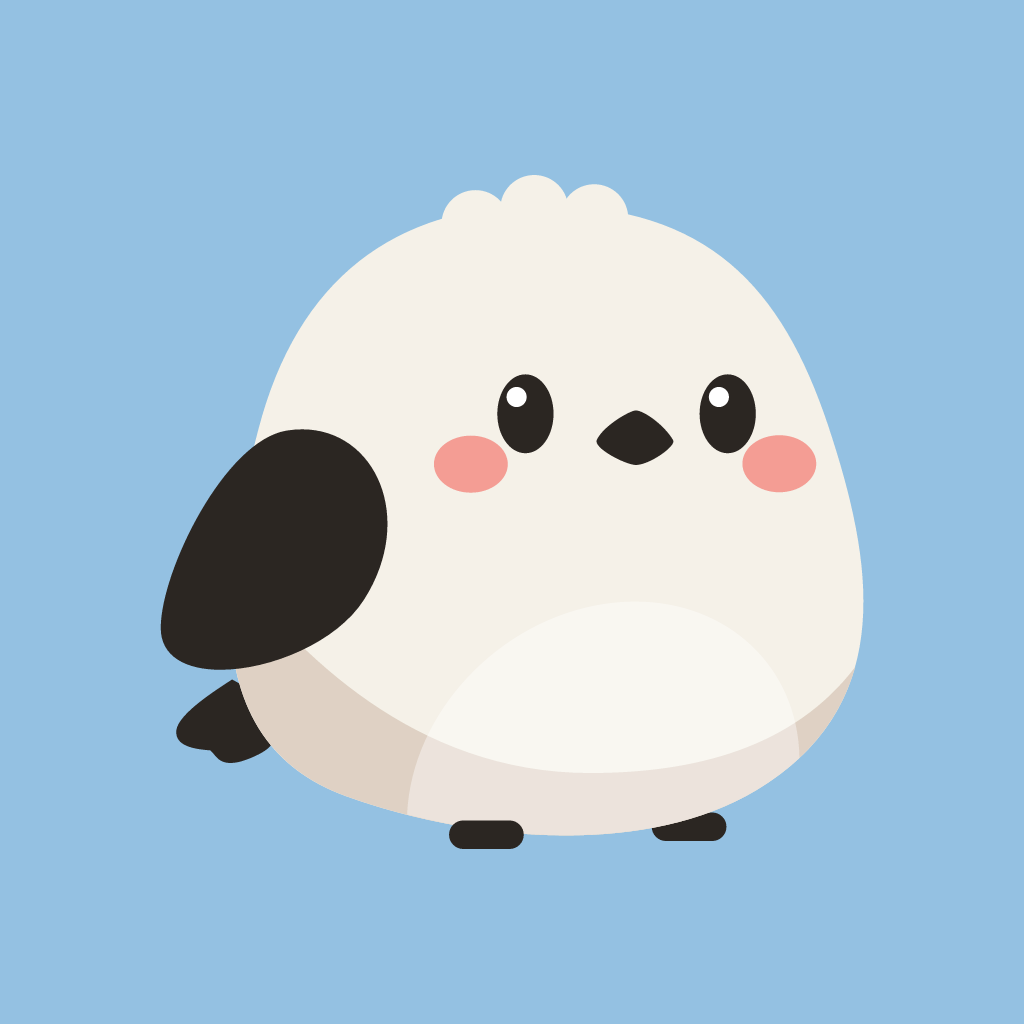
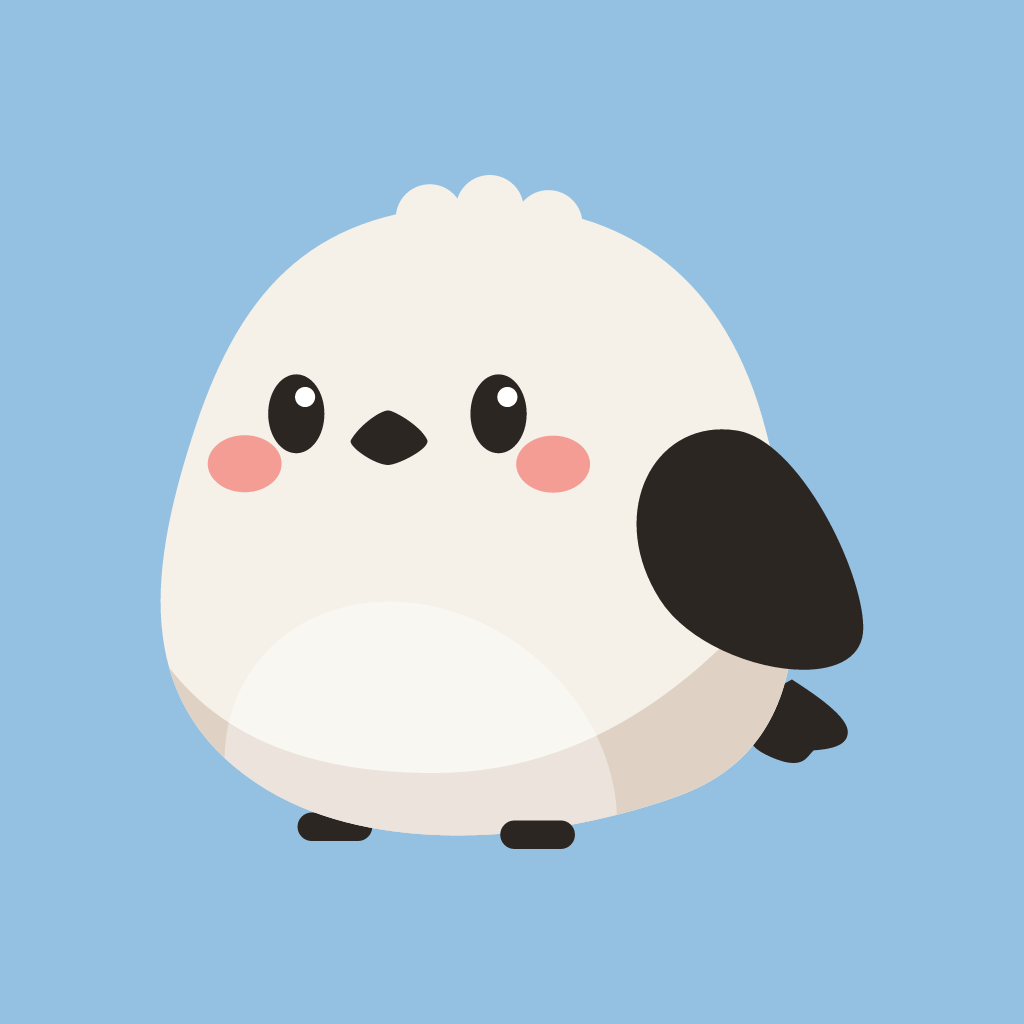
Face the mascot left and stop it floating
Every shape is mirrored so Kotori faces left, as it did before the
redesign, and the mood extras move across with the face; the thinking
glance now points at the thought bubbles. The endless bob is gone; the
blink and the celebrate hop stay. Icons, splash and favicon re-rendered.

Changed region(s): [[0.1562, 0.1562, 0.8438, 0.8438]]

diff --git a/apps/app/src/mascot/geometry.ts b/apps/app/src/mascot/geometry.ts
@@ -13,36 +13,36 @@ export const palette = {
 }
 
 export const shapes = {
-  tail: "M33.3 139.9 C 30 142.1, 20.4 148, 20 152.1 C 19.7 155.8, 24.2 156.5, 28.1 156.8 C 29.6 158.1, 30.1 160.3, 34.2 159.7 C 36.6 159.4, 43.4 156.5, 42.7 154.7 L 47.1 147.5 Z",
+  tail: "M166.7 139.9 C 170 142.1, 179.6 148, 180 152.1 C 180.3 155.8, 175.8 156.5, 171.9 156.8 C 170.4 158.1, 169.9 160.3, 165.8 159.7 C 163.4 159.4, 156.6 156.5, 157.3 154.7 L 152.9 147.5 Z",
   /** Feet are round-capped strokes; the back one tucks behind the body. */
-  feet: { back: "M136.7 175 H 147.7", front: "M88.4 176.9 H 99.4", width: 6.8 },
+  feet: { back: "M52.3 175 H 63.3", front: "M100.6 176.9 H 111.6", width: 6.8 },
   tuft: [
-    { cx: 91.3, cy: 31.4, r: 8.1 },
-    { cx: 105.3, cy: 27.8, r: 8.1 },
-    { cx: 119.6, cy: 30, r: 8.1 }
+    { cx: 80.4, cy: 30, r: 8.1 },
+    { cx: 94.7, cy: 27.8, r: 8.1 },
+    { cx: 108.7, cy: 31.4, r: 8.1 }
   ],
-  body: "M111.2 27 C 149 28.4, 165.7 48.6, 176.4 82.7 C 186.8 115.2, 190.3 147, 158.2 166.3 C 131.2 182.5, 89.7 178.3, 60.4 167.7 C 24.5 154.7, 30.8 113.8, 39.6 80.2 C 49.2 43.4, 73.6 25.5, 111.2 27 Z",
+  body: "M88.8 27 C 51 28.4, 34.3 48.6, 23.6 82.7 C 13.2 115.2, 9.7 147, 41.8 166.3 C 68.8 182.5, 110.3 178.3, 139.6 167.7 C 175.5 154.7, 169.2 113.8, 160.4 80.2 C 150.8 43.4, 126.4 25.5, 88.8 27 Z",
   /** The shadowed underside. */
   shade:
-    "M181.8 136.9 C 178.6 148.2, 171.5 158.3, 158.2 166.3 C 131.2 182.5, 89.7 178.3, 60.4 167.7 C 35.9 158.8, 31.1 136.9, 33.2 113.2 C 48.7 133, 76.4 162.2, 118.6 162.2 C 143.3 162.2, 167.1 156.3, 181.8 136.9 Z",
+    "M18.2 136.9 C 21.4 148.2, 28.5 158.3, 41.8 166.3 C 68.8 182.5, 110.3 178.3, 139.6 167.7 C 164.1 158.8, 168.9 136.9, 166.8 113.2 C 151.3 133, 123.6 162.2, 81.4 162.2 C 56.7 162.2, 32.9 156.3, 18.2 136.9 Z",
   /** Drawn in translucent white so it pales the body and the shade alike. */
   belly:
-    "M75 172.1 A 49.7 42.1 -39.5 0 1 168.5 158.6 C 165.6 161.3, 162.2 163.9, 158.2 166.3 C 135.4 179.9, 102.3 179.1, 75 172.1 Z",
-  wing: "M46.3 80.6 C 66.1 77.4, 77.9 100.1, 64.8 120.8 C 53.9 138.1, 16.1 144.8, 16.3 127.5 C 16.4 113.9, 31.6 83, 46.3 80.6 Z",
+    "M125 172.1 A 49.7 42.1 39.5 0 0 31.5 158.6 C 34.4 161.3, 37.8 163.9, 41.8 166.3 C 64.6 179.9, 97.7 179.1, 125 172.1 Z",
+  wing: "M153.7 80.6 C 133.9 77.4, 122.1 100.1, 135.2 120.8 C 146.1 138.1, 183.9 144.8, 183.7 127.5 C 183.6 113.9, 168.4 83, 153.7 80.6 Z",
   /** Wing raised for celebrations. */
   wingUp:
-    "M71.4 78.8 C 72.8 98.8, 49.3 108.6, 29.8 93.8 C 13.5 81.4, 10.1 43.1, 27.3 44.8 C 40.9 46.1, 70.4 64, 71.4 78.8 Z",
+    "M128.6 78.8 C 127.2 98.8, 150.7 108.6, 170.2 93.8 C 186.5 81.4, 189.9 43.1, 172.7 44.8 C 159.1 46.1, 129.6 64, 128.6 78.8 Z",
   cheeks: [
-    { cx: 90.2, cy: 88.6, rx: 8.8, ry: 6.8 },
-    { cx: 163.7, cy: 88.5, rx: 8.8, ry: 6.8 }
+    { cx: 36.3, cy: 88.5, rx: 8.8, ry: 6.8 },
+    { cx: 109.8, cy: 88.6, rx: 8.8, ry: 6.8 }
   ],
   eyes: [
-    { cx: 103.2, cy: 76.6, rx: 6.7, ry: 9.4 },
-    { cx: 151.4, cy: 76.6, rx: 6.7, ry: 9.4 }
+    { cx: 48.6, cy: 76.6, rx: 6.7, ry: 9.4 },
+    { cx: 96.8, cy: 76.6, rx: 6.7, ry: 9.4 }
   ],
   /** Catchlight, offset from each eye's centre. */
-  catchlight: { dx: -2.1, dy: -4, r: 2.4 },
-  beak: "M129.4 75.8 C 131.4 75.7, 136.5 79.5, 138.4 82.9 C 139.2 84.3, 132.6 88.9, 129.4 88.8 C 126.7 88.6, 119.3 84.7, 120.2 82.8 C 121.9 79.3, 128.1 75.9, 129.4 75.8 Z"
+  catchlight: { dx: 2.1, dy: -4, r: 2.4 },
+  beak: "M70.6 75.8 C 68.6 75.7, 63.5 79.5, 61.6 82.9 C 60.8 84.3, 67.4 88.9, 70.6 88.8 C 73.3 88.6, 80.7 84.7, 79.8 82.8 C 78.1 79.3, 71.9 75.9, 70.6 75.8 Z"
 } as const
 
 export type Mood = "curious" | "happy" | "thinking" | "sleepy" | "celebrate" | "oops"

diff --git a/apps/app/src/components/Mascot.tsx b/apps/app/src/components/Mascot.tsx
@@ -1,14 +1,11 @@
 import { useEffect, useState } from "react"
 import { View } from "react-native"
 import Animated, {
-  Easing,
   useAnimatedStyle,
   useReducedMotion,
   useSharedValue,
-  withRepeat,
   withSequence,
-  withSpring,
-  withTiming
+  withSpring
 } from "react-native-reanimated"
 import Svg, { Circle, Ellipse, G, Path, Text as SvgText } from "react-native-svg"
 import { type Mood, palette, shapes } from "../mascot/geometry.ts"
@@ -58,25 +55,13 @@ const Foot = ({ d }: { readonly d: string }) => (
 )
 
 /**
- * Kotori, the shima enaga. Bobs gently, blinks now and then, and changes
- * expression with `mood`. Stays still when the system asks for reduced motion.
+ * Kotori, the shima enaga. Blinks now and then and changes expression with
+ * `mood`. Stays still when the system asks for reduced motion.
  */
 export const Mascot = ({ size = 120, mood = "curious" }: { readonly size?: number; readonly mood?: Mood }) => {
   const reduceMotion = useReducedMotion()
-  const bob = useSharedValue(0)
   const hop = useSharedValue(0)
   const [blinking, setBlinking] = useState(false)
-
-  useEffect(() => {
-    if (reduceMotion) return
-    bob.value = withRepeat(
-      withSequence(
-        withTiming(-size * 0.025, { duration: 1400, easing: Easing.inOut(Easing.sin) }),
-        withTiming(0, { duration: 1400, easing: Easing.inOut(Easing.sin) })
-      ),
-      -1
-    )
-  }, [reduceMotion, size])
 
   useEffect(() => {
     if (reduceMotion || mood !== "celebrate") return
@@ -105,7 +90,7 @@ export const Mascot = ({ size = 120, mood = "curious" }: { readonly size?: numbe
     return () => clearTimeout(timer)
   }, [mood, reduceMotion])
 
-  const style = useAnimatedStyle(() => ({ transform: [{ translateY: bob.value + hop.value }] }))
+  const style = useAnimatedStyle(() => ({ transform: [{ translateY: hop.value }] }))
   const celebrating = mood === "celebrate"
 
   return (
@@ -131,23 +116,23 @@ export const Mascot = ({ size = 120, mood = "curious" }: { readonly size?: numbe
           ))}
           <Eyes mood={mood} blinking={blinking} />
           <Path d={shapes.beak} fill={palette.ink} />
-          {mood === "oops" ? <Path d="M171 46 q 7 10 0 15 q -7 -5 0 -15 Z" fill={palette.sky} /> : null}
+          {mood === "oops" ? <Path d="M29 46 q 7 10 0 15 q -7 -5 0 -15 Z" fill={palette.sky} /> : null}
           {mood === "sleepy" ? (
-            <SvgText x={164} y={38} fontSize={22} fontWeight="bold" fill={palette.sky}>
+            <SvgText x={25} y={38} fontSize={22} fontWeight="bold" fill={palette.sky}>
               z
             </SvgText>
           ) : null}
           {mood === "thinking" ? (
             <G opacity={0.85}>
-              <Circle cx={160} cy={37} r={4} fill={palette.shade} />
-              <Circle cx={171} cy={24} r={5.5} fill={palette.shade} />
-              <Circle cx={185} cy={10} r={7.5} fill={palette.shade} />
+              <Circle cx={40} cy={37} r={4} fill={palette.shade} />
+              <Circle cx={29} cy={24} r={5.5} fill={palette.shade} />
+              <Circle cx={15} cy={10} r={7.5} fill={palette.shade} />
             </G>
           ) : null}
           {celebrating ? (
             <G fill={palette.blush}>
-              <Path d="M42 9 l 3 8 l 8 3 l -8 3 l -3 8 l -3 -8 l -8 -3 l 8 -3 Z" />
-              <Path d="M172 20 l 2 6 l 6 2 l -6 2 l -2 6 l -2 -6 l -6 -2 l 6 -2 Z" />
+              <Path d="M158 9 l 3 8 l 8 3 l -8 3 l -3 8 l -3 -8 l -8 -3 l 8 -3 Z" />
+              <Path d="M28 20 l 2 6 l 6 2 l -6 2 l -2 6 l -2 -6 l -6 -2 l 6 -2 Z" />
             </G>
           ) : null}
         </Svg>
